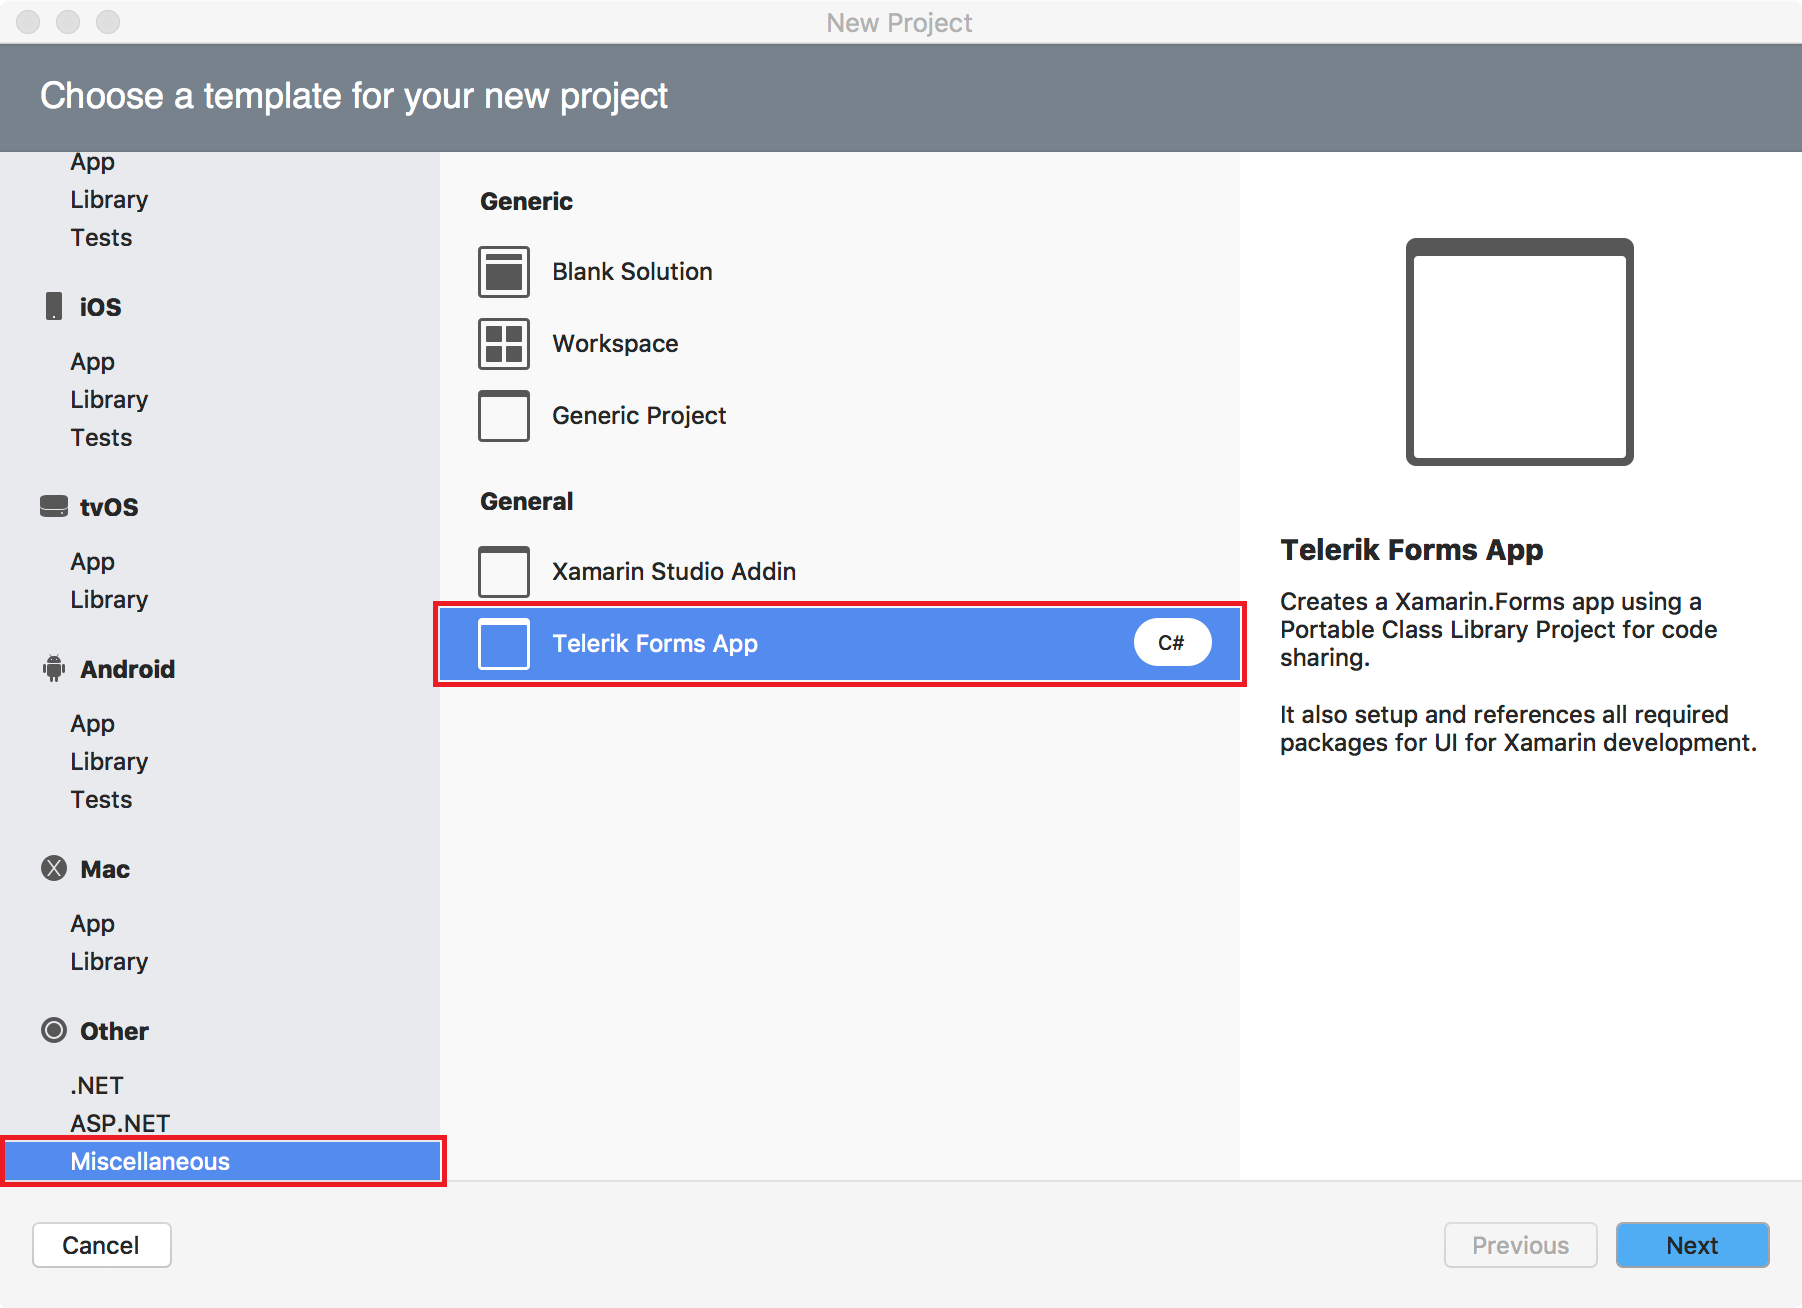
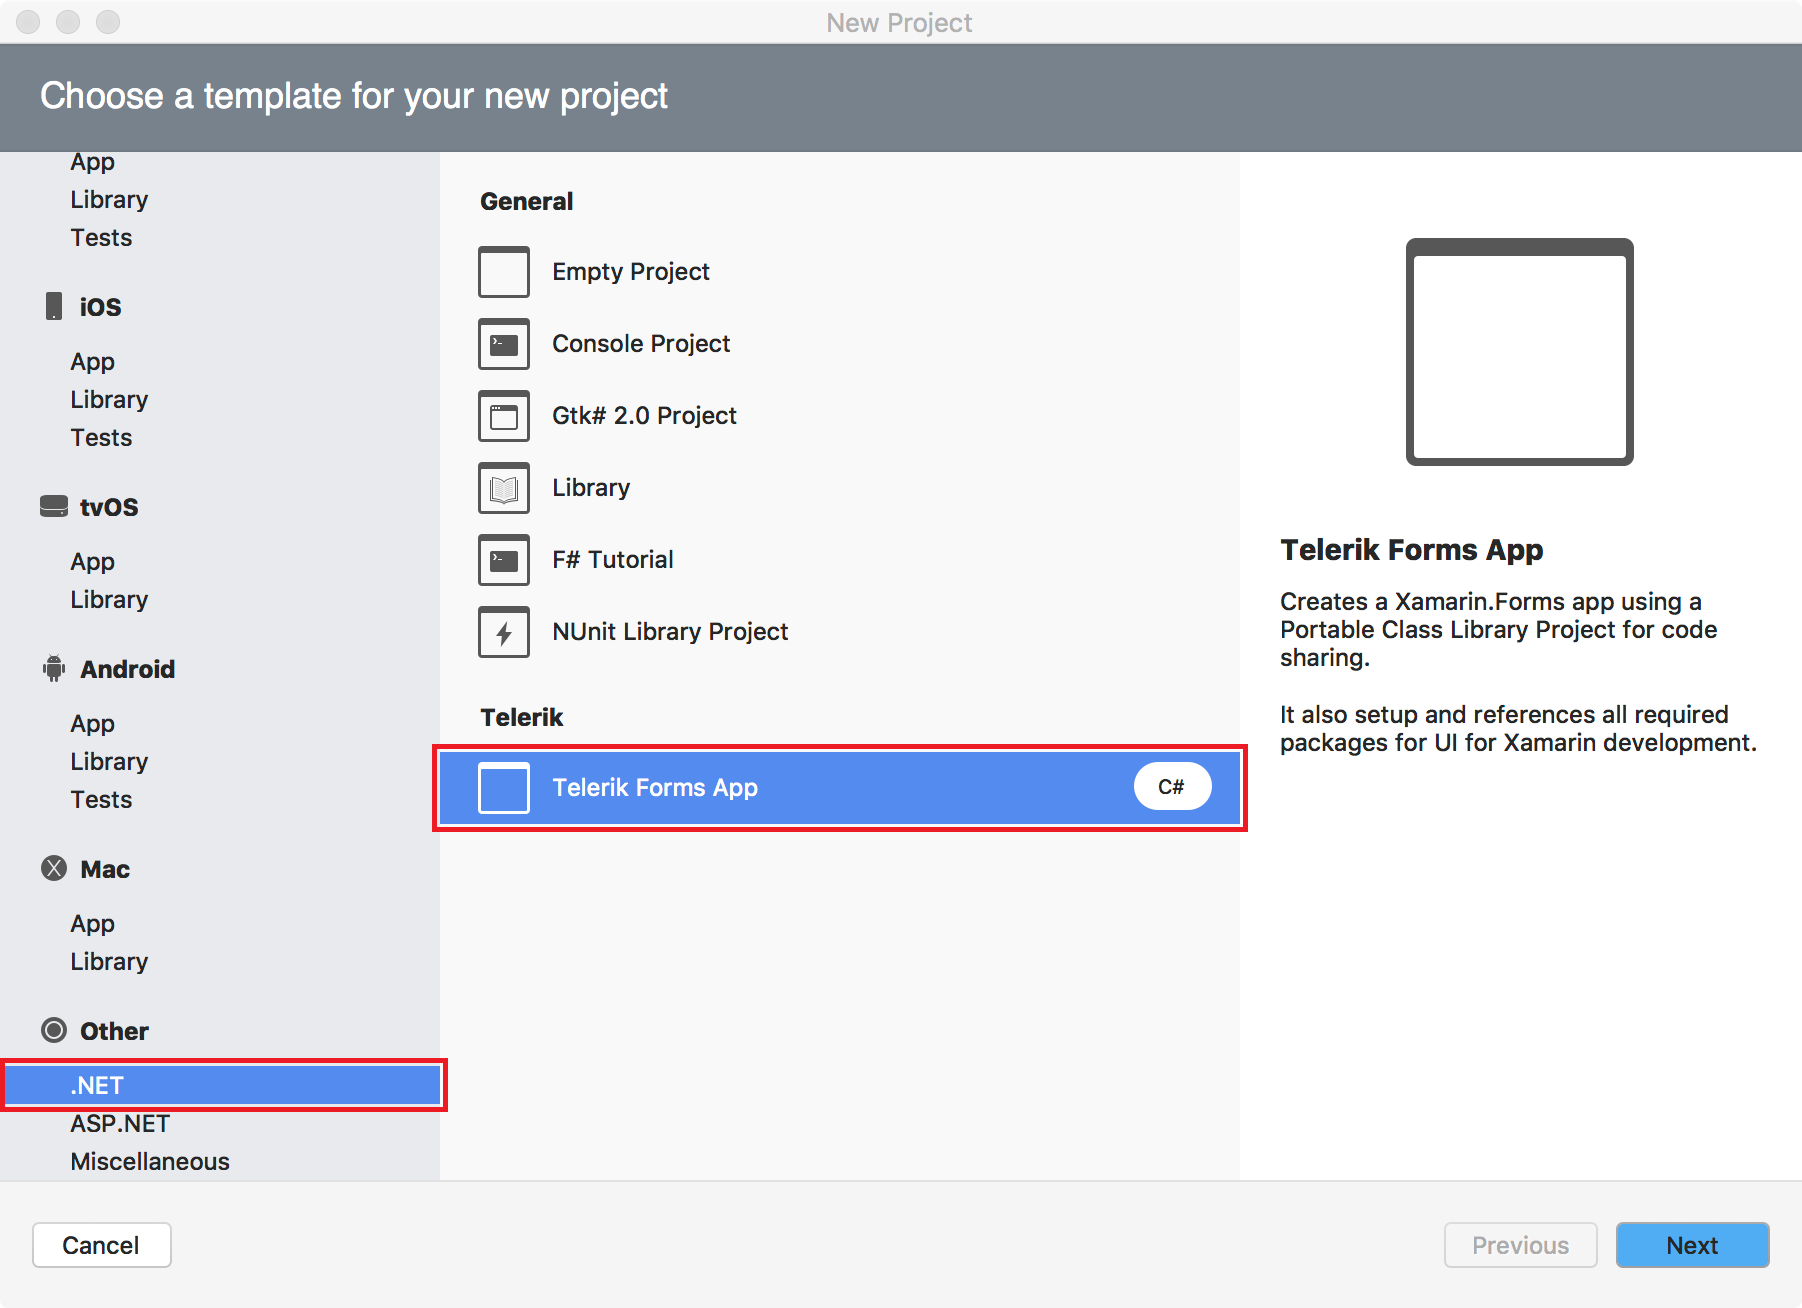
Updated xamarin studio project wizard article.

diff --git a/installation-and-deployment/mac/project-wizard.md b/installation-and-deployment/mac/project-wizard.md
@@ -25,7 +25,7 @@ Now you can create a new project using the Telerik Project Template.
 
 ![Xamarin Studio Create new project](images/xs-project-wizard-new-project-1.png)
 
-The **Telerik Forms App** template can be found in *Other > Miscellaneous* section.
+The **Telerik Forms App** template can be found in *Other > .NET* section.
 
 ![Xamarin Studio Telerik Project Template](images/xs-project-wizard-new-project-2.png)
 
